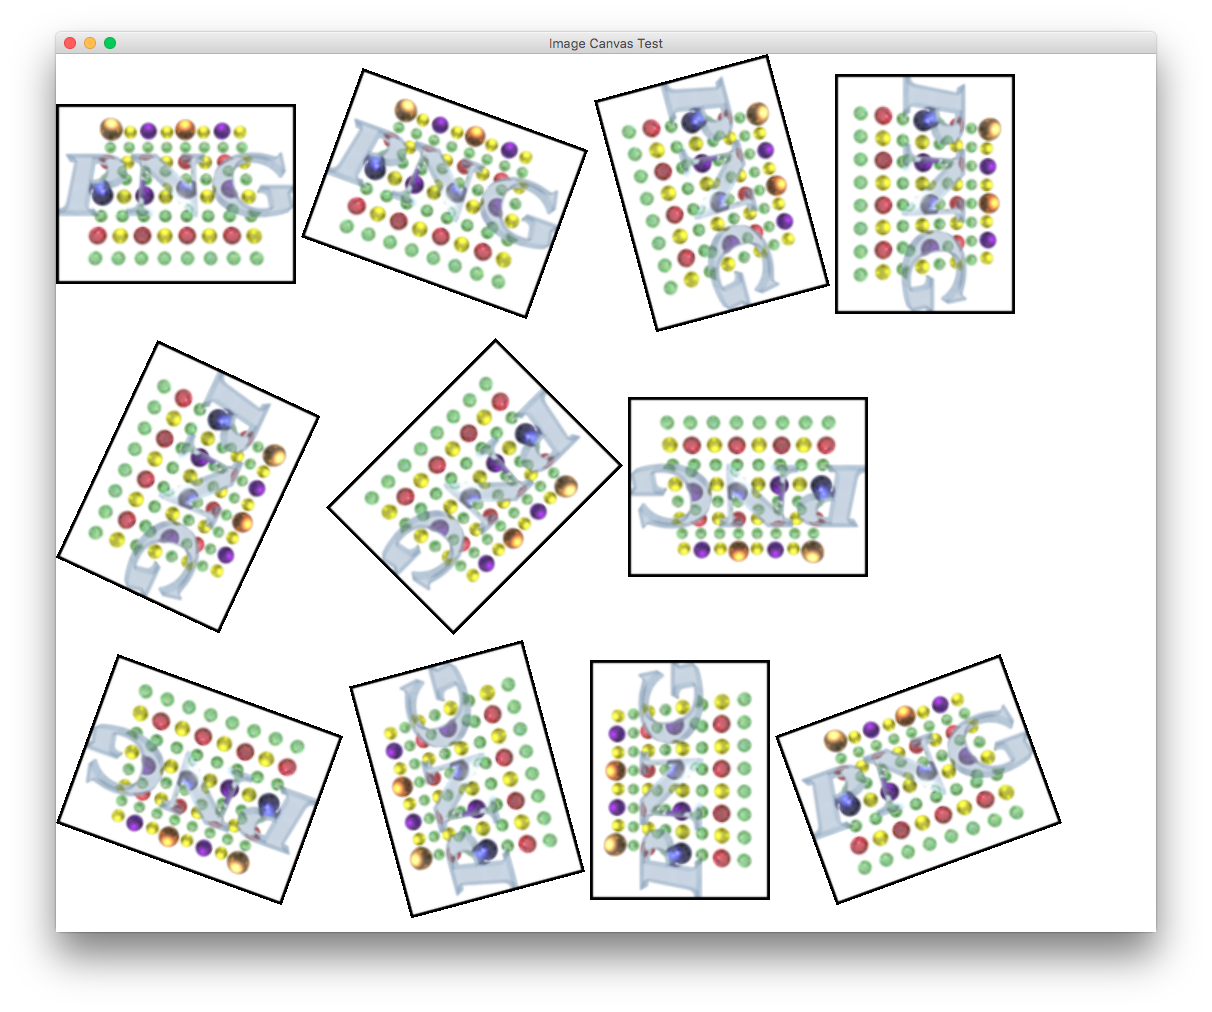
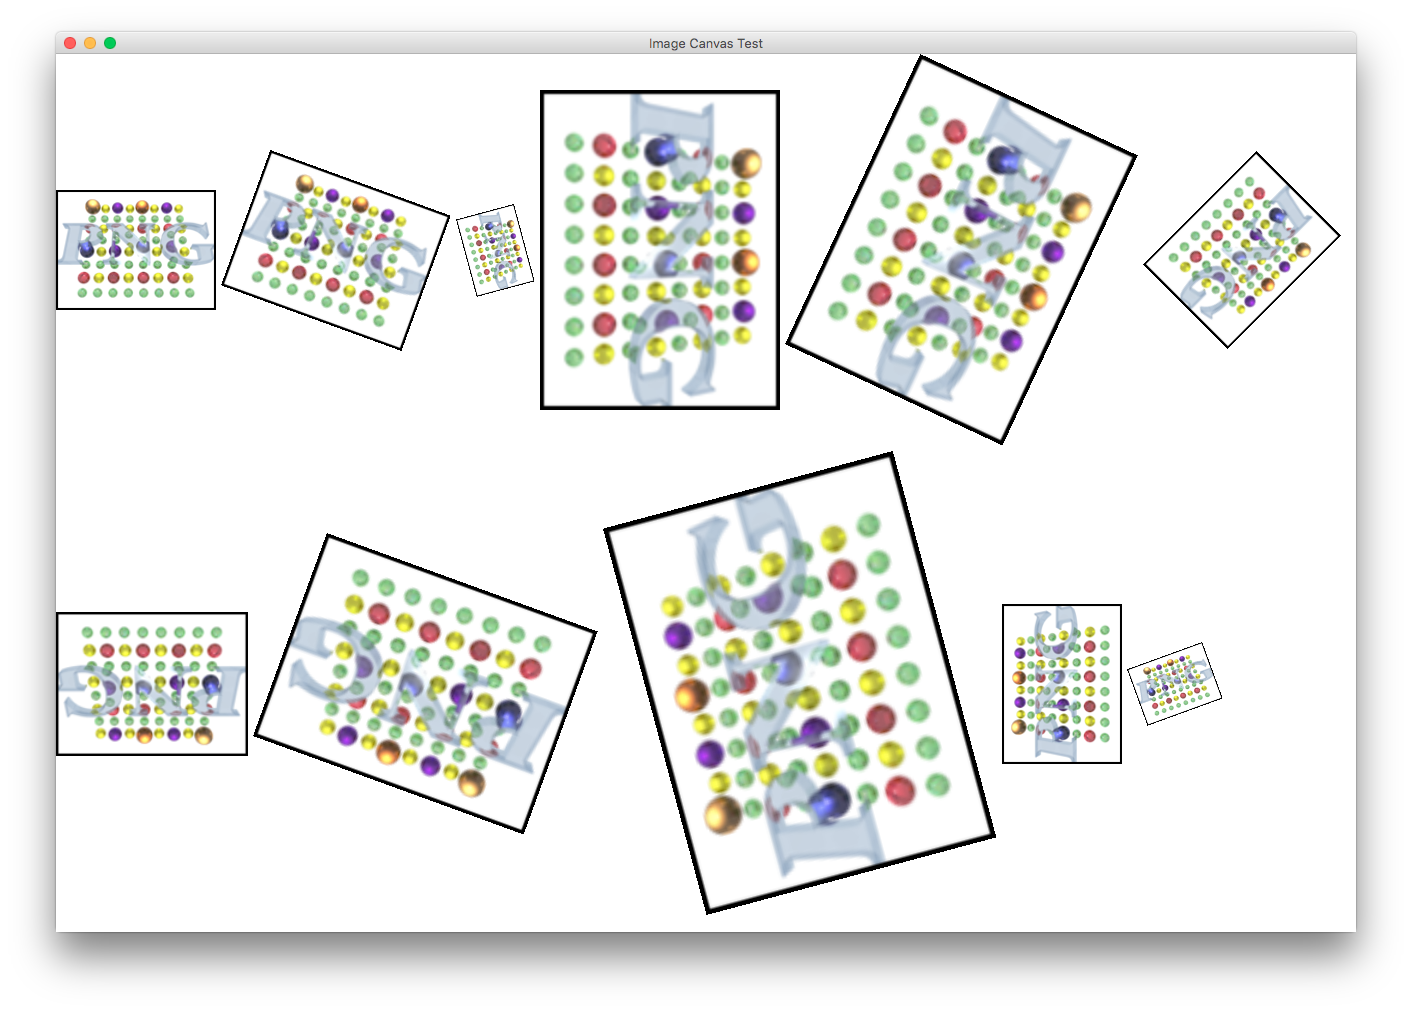
New version of readme.

diff --git a/README.md b/README.md
@@ -1,7 +1,9 @@
 # JfxImageCanvas
 JfxImageCanvas is a JavaFX Class that can be used to render a scaled and rotated image in a canvas.
 
-The image can be rotated by multiples of 90 degree and can be sized by a scale factor. The canvas size will be set according to these transformations.
+The image can be rotated and resized by a scale factor. The canvas size will be set according to these transformations.
+
+The following screen shot shows the usage with 11 instances based on the same image with identical scale factor and different rotation:
 
 ![Screen Shot](images/example.png)
 
